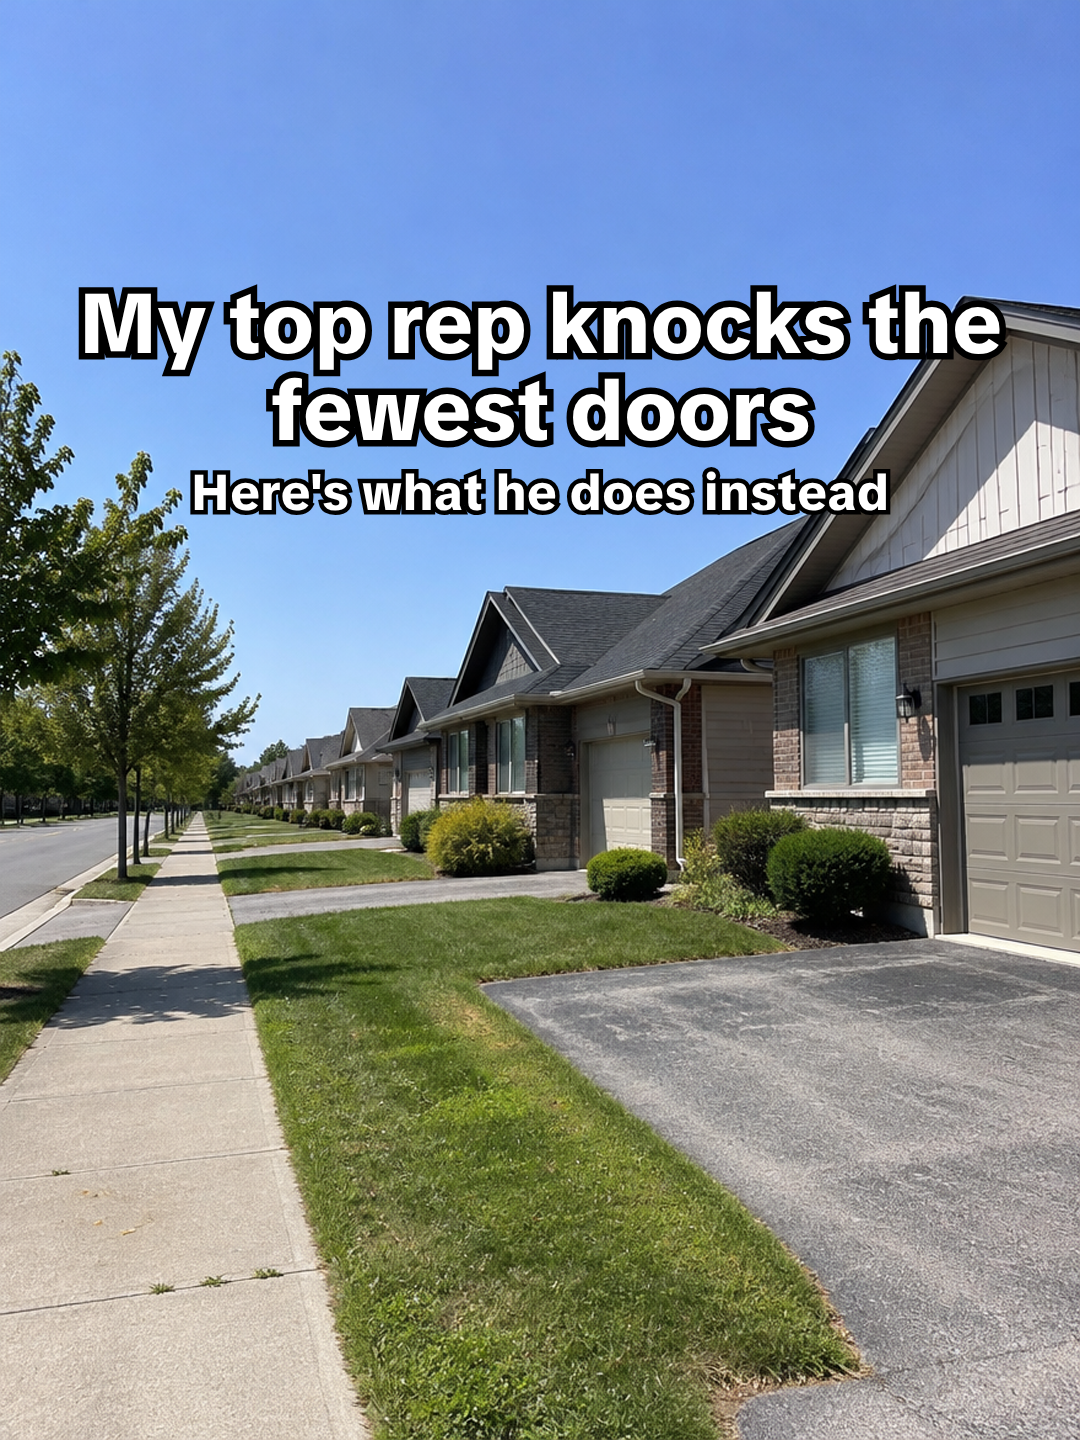
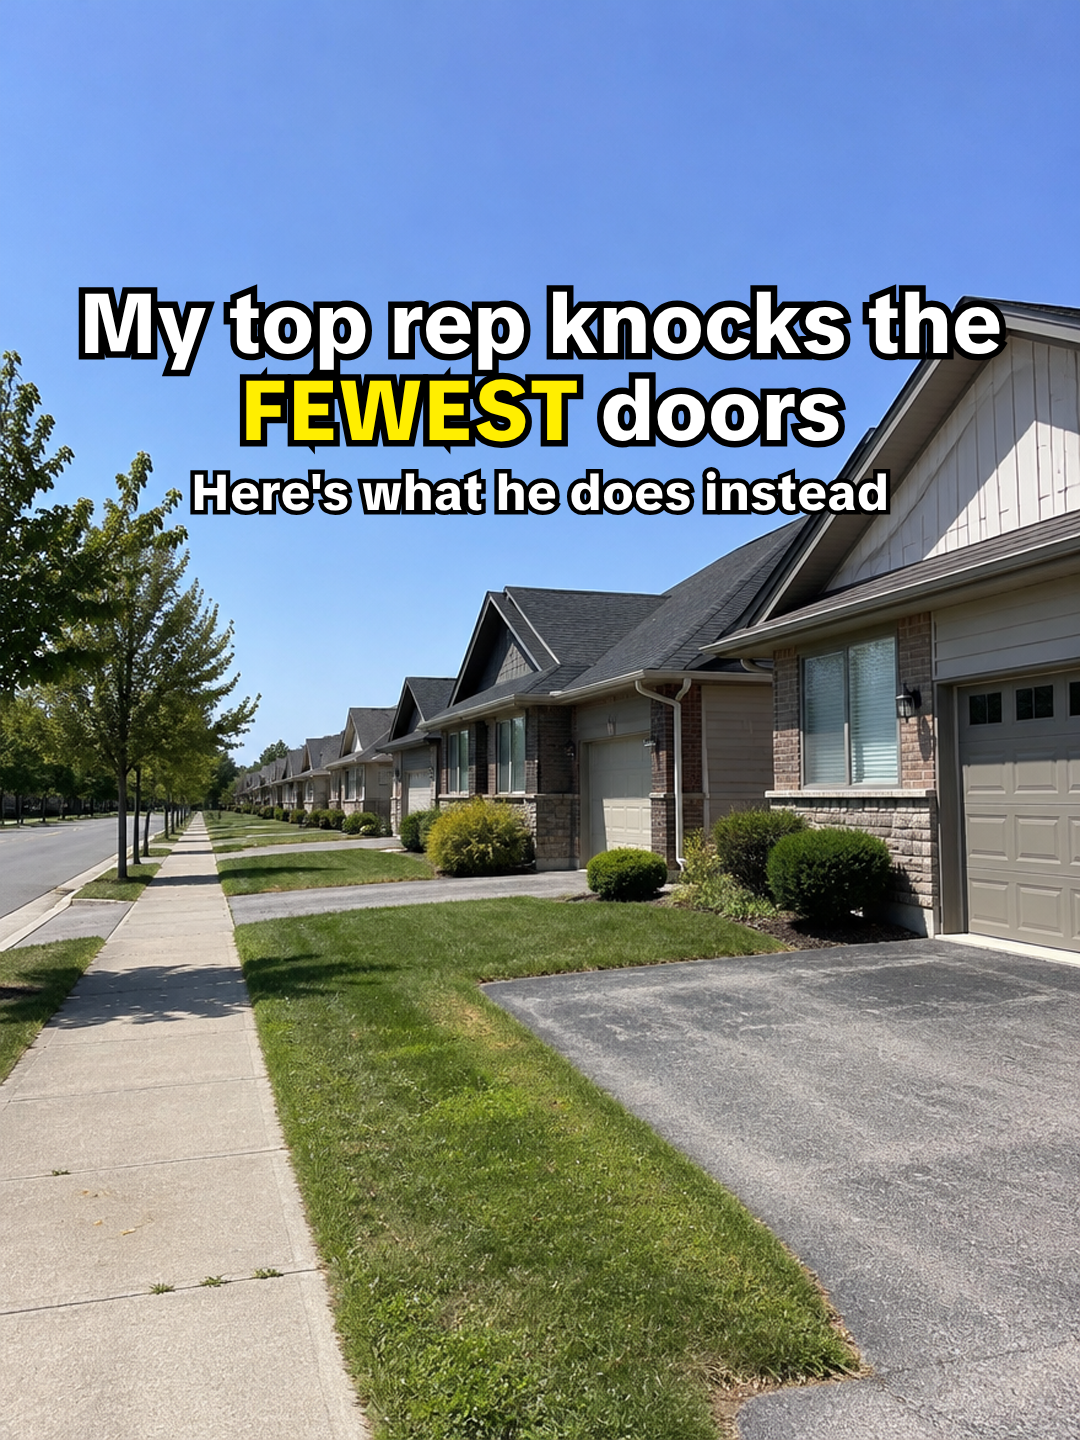
slide 2: emphasize FEWEST
Claude-Session: https://claude.ai/code/session_01EVxDagMumu1dzbEEzpRUBn

Changed region(s): [[0.2139, 0.25, 0.7944, 0.3125]]

diff --git a/video_research/content_kit/edits/more_doors_slides/tool2.html b/video_research/content_kit/edits/more_doors_slides/tool2.html
@@ -12,7 +12,7 @@ img.bg{position:absolute;inset:0;width:1080px;height:1440px;object-fit:cover}
 #fol{position:absolute;left:0;right:0;bottom:60px;text-align:center;color:#fff;font:800 58px TT;-webkit-text-stroke:10px #000;paint-order:stroke fill}
 </style></head><body><img class="bg" id="bg"><div class="tt" id="tt"></div><div id="cta"></div><div id="fol"></div>
 <script>const Q=new URLSearchParams(location.search); document.getElementById('bg').src=Q.get('img');
-const t=document.getElementById('tt'); if(Q.get('h')){ t.innerHTML='<h1></h1>'; t.firstChild.textContent=Q.get('h'); for(const b of Q.getAll('b')){const p=document.createElement('p'); p.textContent=b; t.appendChild(p);}}
+const t=document.getElementById('tt'); if(Q.get('h')){ t.innerHTML='<h1></h1>'; t.firstChild.textContent=Q.get('h'); if(Q.get('em')){const e=Q.get('em'); t.firstChild.innerHTML=t.firstChild.textContent.replace(e,'<span style="color:#FFEE00">'+e.toUpperCase()+'</span>');} for(const b of Q.getAll('b')){const p=document.createElement('p'); p.textContent=b; t.appendChild(p);}}
 if(Q.get('cta')){const e=document.getElementById('cta');e.innerHTML='<div class="r"></div><div class="s"></div>';e.querySelector('.r').textContent=Q.get('cta');e.querySelector('.s').textContent=Q.get('ctas');}
 if(Q.get('fol')) document.getElementById('fol').textContent=Q.get('fol');
 </script></body></html>

diff --git a/video_research/content_kit/edits/more_doors_slides/build.js b/video_research/content_kit/edits/more_doors_slides/build.js
@@ -6,5 +6,5 @@ const S = [['p1.png', 'My top rep knocks the fewest doors', ["Here's what he doe
 (async () => { const b = await chromium.launch(); const p = await b.newPage({ viewport: { width: 1080, height: 1440 } });
   const go = async (f, q, o) => { await p.goto('file://' + path.resolve(f) + (q ? '?' + q : '')); await p.evaluate(() => document.fonts.ready); await p.waitForTimeout(250); await p.screenshot({ path: o }); };
   await go('hook.html', '', 'slide1.png');
-  for (let i = 0; i < S.length; i++) { const q = new URLSearchParams({ img: S[i][0], h: S[i][1] }); S[i][2].forEach(x => q.append('b', x)); await go('tool2.html', q, `slide${i + 2}.png`); }
+  for (let i = 0; i < S.length; i++) { const q = new URLSearchParams({ img: S[i][0], h: S[i][1] }); if (i === 0) q.set('em', 'fewest'); S[i][2].forEach(x => q.append('b', x)); await go('tool2.html', q, `slide${i + 2}.png`); }
   await go('close.html', '', 'slide6.png'); await b.close(); })();
